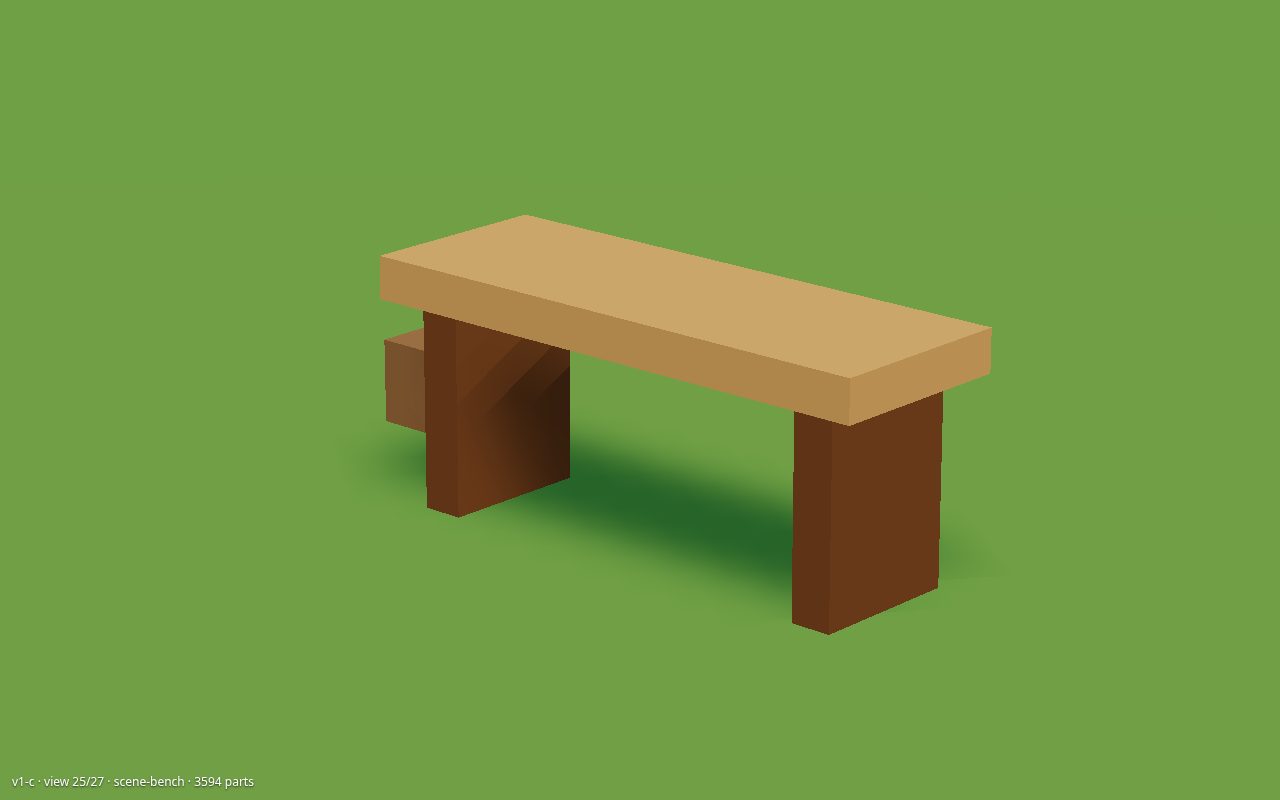
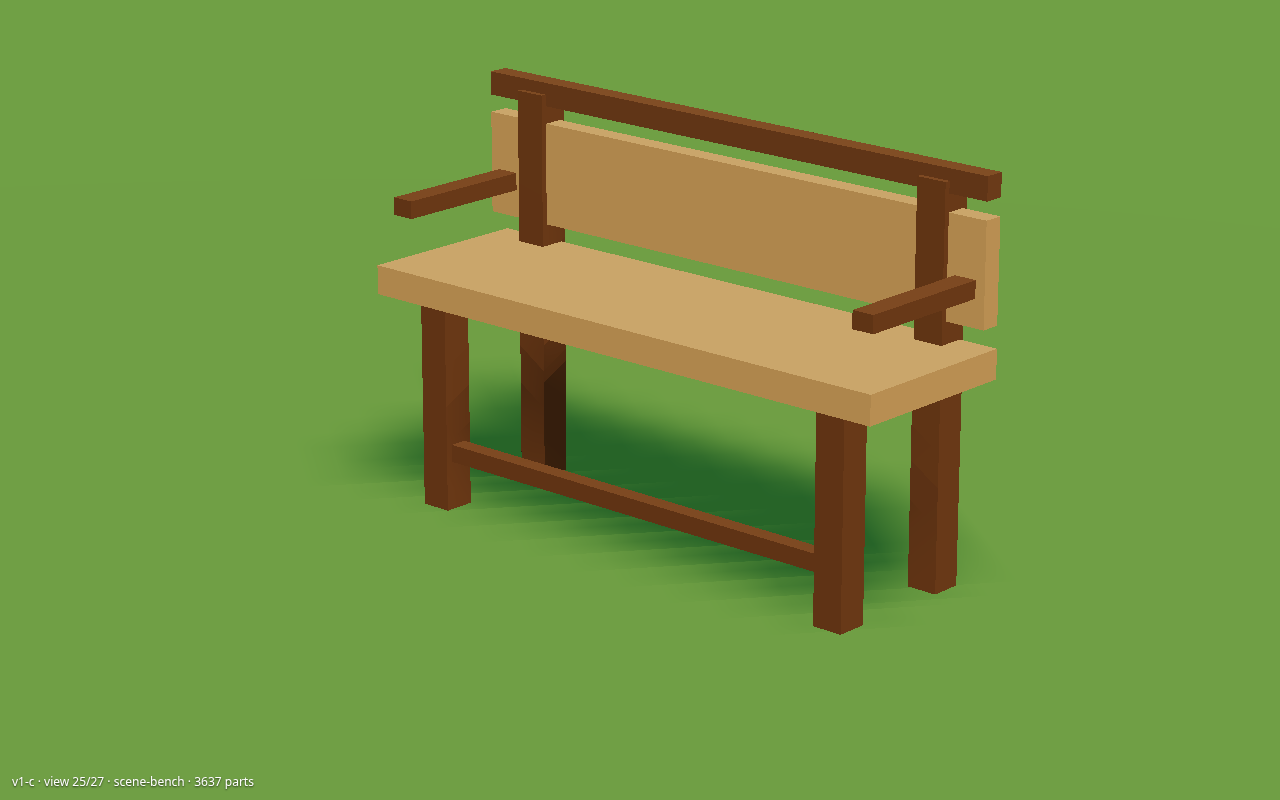
phase-2: rebuild the scene props and lighten the sky forge

Changed region(s): [[0.2812, 0.0625, 0.7812, 0.8125], [0.1562, 0.9688, 0.1875, 1.0]]

diff --git a/PHASE2_NOTES.md b/PHASE2_NOTES.md
@@ -48,7 +48,7 @@ One upgraded look for the town buildings. Shops keep the pinned footprints (Tool
 - Hearth and Home: green sign (#2F5D3A). The porch posts stand just inside the front wall (the pad starts at the wall; posts outside it sat on grass).
 - Dealership: red sign (#D9534F). The showroom walkway is clear. The three nearest bays have a low plinth and a dim lamp. The porch lantern is no brighter than the showroom lamps.
 - Weigh House: red metal roof, a round scale on the side. No new price text.
-- New models are built but not placed in the live town yet: gate kiosk, Odds and Ends ("CHARGES", no dollar amount), Sparkworks (empty demo board), Sky Market, Gondola Pass turnstile, plot map, arrival arch, Land Office cottage, sky forge court (anvil, order board, four relic sockets).
+- New models are built but not placed in the live town yet: gate kiosk, Odds and Ends ("CHARGES", no dollar amount), Sparkworks (empty demo board), Sky Market, Gondola Pass turnstile, plot map, arrival arch, Land Office cottage, sky forge court (stone and timber, anvil, timber ORDERS board, four relic sockets). The fishing dock, campfire, lookout and park bench are preview props only (`PropArt.Scene`); they are not in the live town.
 
 **Phone emulator**
 

diff --git a/STATUS.md b/STATUS.md
@@ -29,9 +29,11 @@ Part counts, whole model, Lune (shop cap 250, including the interior):
 | Plot map | — | 3 |
 | Arrival arch | — | 4 |
 | Land Office (art only) | — | 8 |
-| Sky forge court | — | 16 |
+| Sky forge court | — | 23 |
 
 Round 1 framing (8 October 2026). `town-overview.png` is one elevated three-quarter of a grouped street (the per-building fronts are unchanged). The four scene shots are three-quarter views from about 25 studs, each prop about half the frame. The DAILY JOBS board is wider, with the posts on its edges, so the words clear the posts. The Tool Shed gold table is unchanged.
+
+Round 2 (8 October 2026). The sky forge court uses the street palette: honey plank walls, a weathered-timber furnace with thick timber and honey bands, and a stone chimney. Darker slate photographed as a missing material on the shadowed street face. The four scene props are rebuilt, 10 to 30 parts each: a teepee fire with a tripod pot and log seats, a dock on water with posts, a rod, a bucket and a crate, a lookout platform about 9 studs up with a ladder and a coin telescope, and a park bench with a back and arms. `mill-foreman.png` is unchanged.
 
 Paths:
 - `previews/v1-c/sawmill-front.png`
